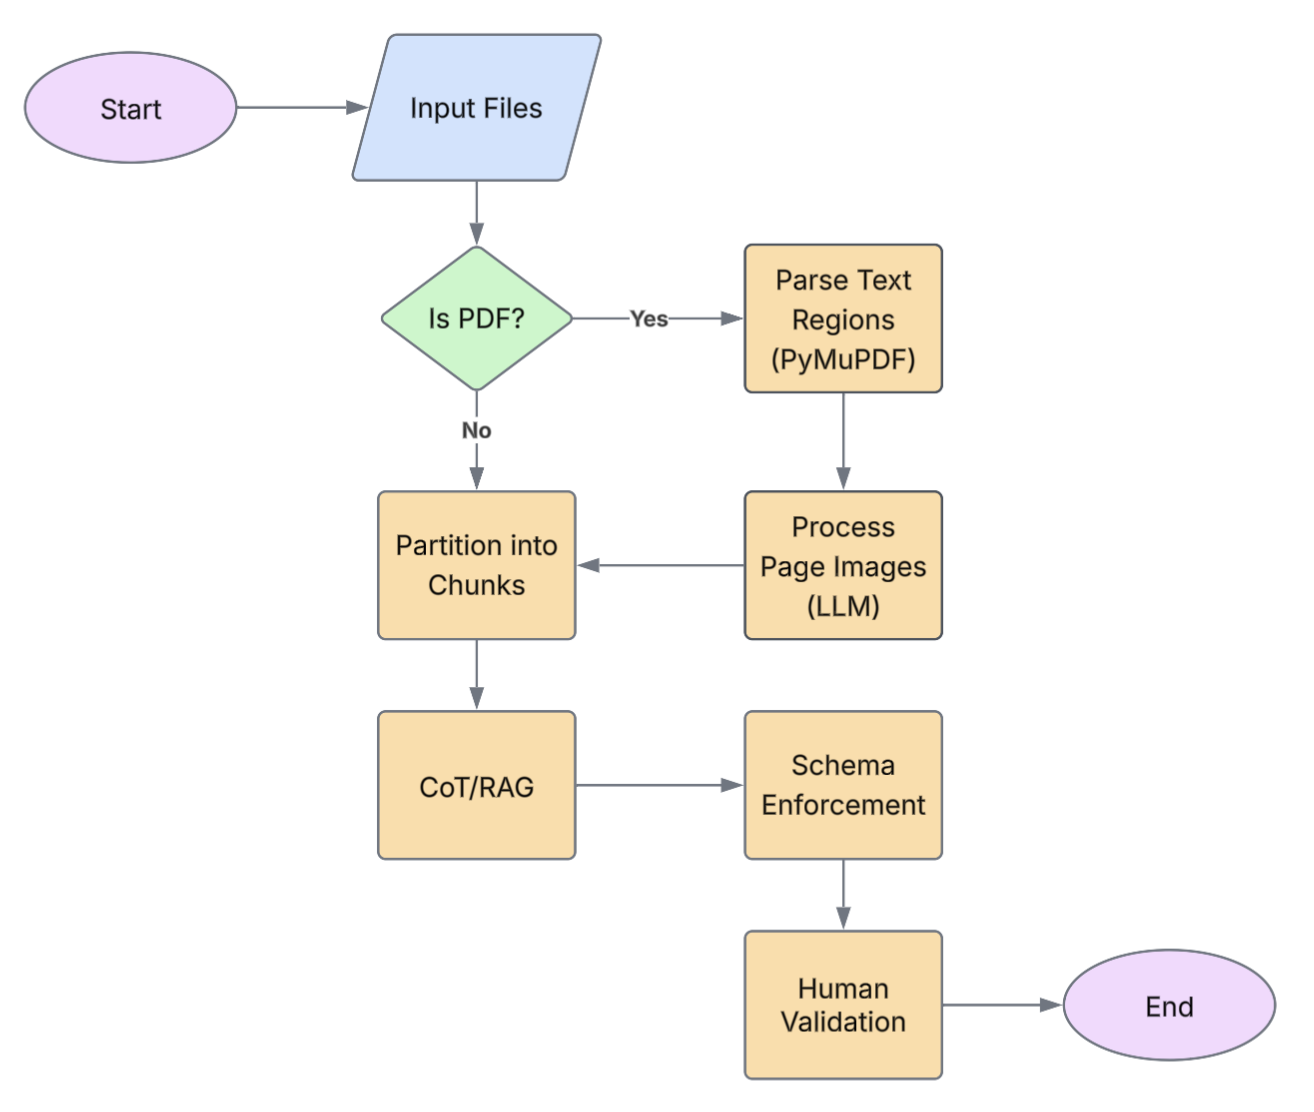
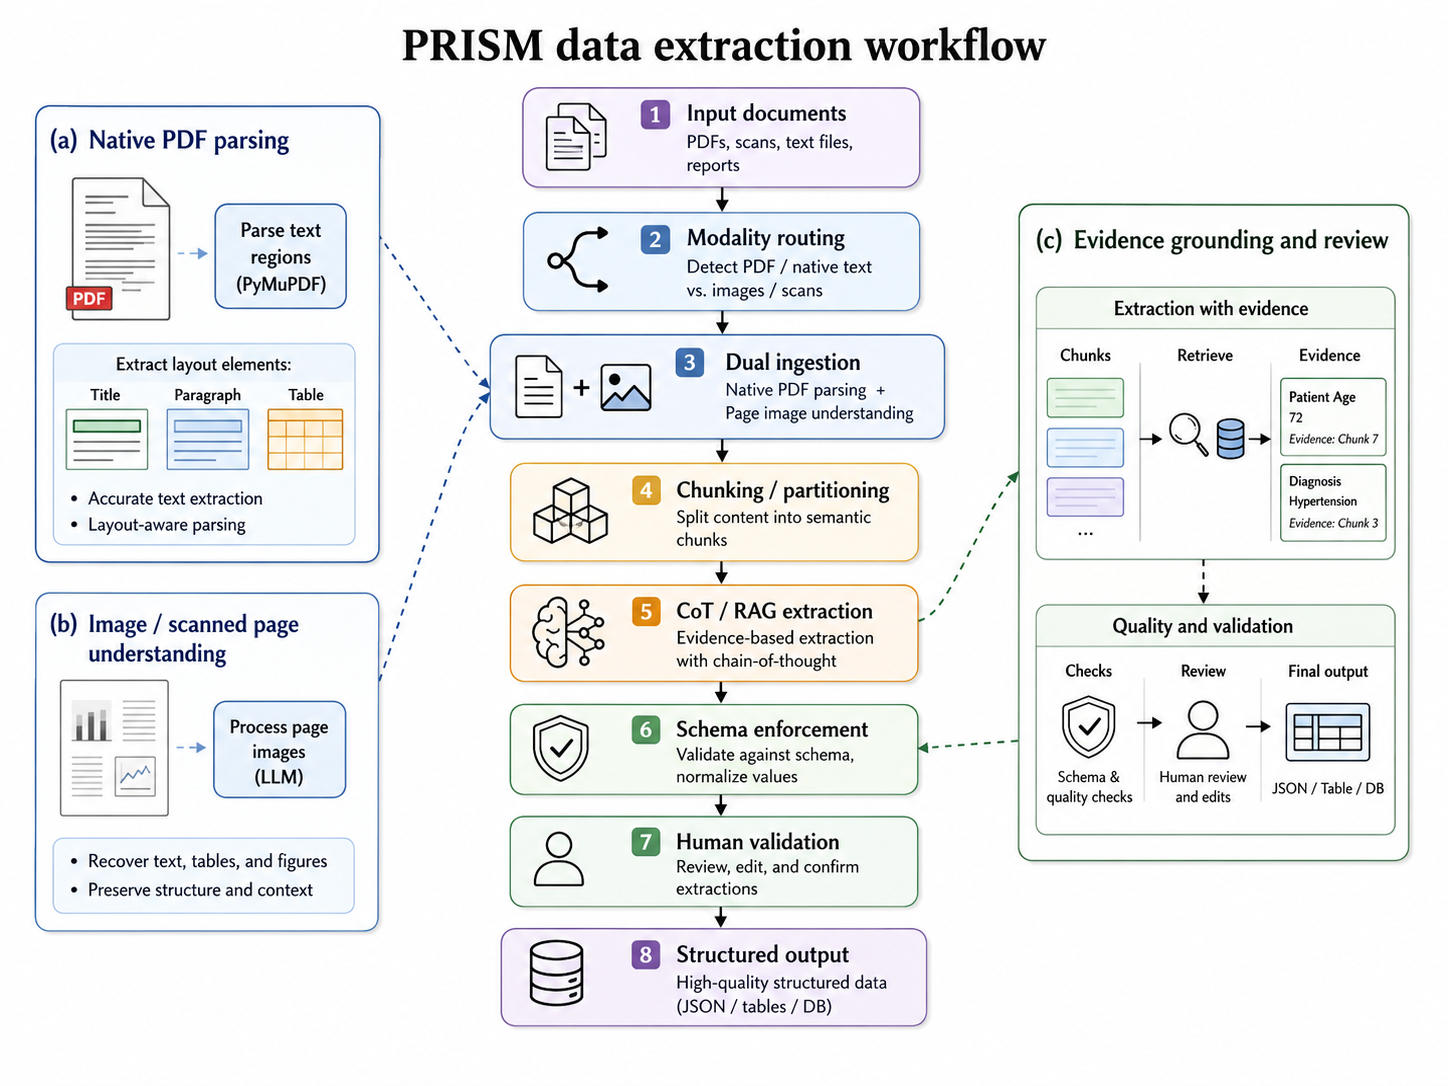
feat: update the "data extraction in prism" section

diff --git a/paper/src/3_methodology/2_data_extraction_in_prism.tex b/paper/src/3_methodology/2_data_extraction_in_prism.tex
@@ -4,11 +4,19 @@ The analytical dataset used in this study originates from the Plastic Recovery I
 
 \begin{figure}[H]
 	\centering
-	\includegraphics[width=0.8\linewidth]{figures/prism_data_extraction.png}
+	\includegraphics[width=1.0\linewidth]{figures/prism_data_extraction.png}
 	\caption{
 		The data extraction workflow runs through PRISM. When a document comes in, the system first identifies the document type, which is either PDF or tabular file. For PDF documents, PRISM first parses text regions using PyMuPDF and processes page images using large language models (LLMs). Then, both PDF-derived text and tabular files are partitioned into chunks. Finally, the system uses LLMs to extract data points via chain-of-thought prompting and retrieval-augmented generation. All data points undergo human validation before being used by downstream analysis.
 	}
 	\label{fig:prism_data_extraction}
 \end{figure}
 
-PRISM transforms unstructured source files into structured analytical records through an LLM-assisted data extraction workflow (Figure~\ref{fig:prism_data_extraction}). Each extracted data point includes a specific location (country or region), a reference year, a numerical value, a measurement unit, a data group, and a source reference. Because automated extraction with LLMs can introduce noise and inaccuracies, all extracted records are manually reviewed and approved before being admitted into the AUDA analytical database, where they are subsequently used for modeling and visualization.
+% PRISM transforms unstructured source files into structured analytical records through an LLM-assisted data extraction workflow (Figure~\ref{fig:prism_data_extraction}). Each extracted data point includes a specific location (country or region), a reference year, a numerical value, a measurement unit, a data group, and a source reference. Because automated extraction with LLMs can introduce noise and inaccuracies, all extracted records are manually reviewed and approved before being admitted into the AUDA analytical database, where they are subsequently used for modeling and visualization.
+
+% ChatGPT
+% TODO: rewrite this
+Figure~\ref{fig:prism_data_extraction} illustrates the end-to-end data extraction workflow used in the PRISM platform to transform uploaded unstructured documents into validated, structured data points. The process begins when an end user uploads a document, such as a PDF or Excel file, through the platform interface. The uploaded file is stored in Azure Blob Storage, while its metadata, including file type and storage URL, is recorded in the backend database. The system then classifies the document type to determine the appropriate processing strategy. For PDF documents, textual content is parsed using PyMuPDF, while visual elements such as tables, charts, and images are interpreted using GPT-4o. For Excel documents, structured tables are divided into smaller row-wise chunks to support efficient extraction.
+
+% ChatGPT
+% TODO: rewrite this
+After parsing, the PDF pipeline stores embedded text chunks in Azure AI Search to support retrieval-augmented generation for selected fields such as publisher and report date. The extraction component then applies large language models to identify relevant data points, including year, location, data point name, value, unit, and source context. The extracted outputs are subsequently passed through multiple post-processing layers, including data cleaning, location and data-point mapping, duplicate removal, unit standardization, calculated field generation, and quality score computation. Finally, the structured extraction results are saved as JSON in Azure Blob Storage and appended to the database for downstream validation, visualization, mapping, and chatbot use. Overall, the figure highlights how PRISM combines cloud storage, document parsing, vector search, generative AI, and rule-based post-processing to create a scalable and auditable data extraction pipeline.

diff --git a/paper/src/1_introduction/main.tex b/paper/src/1_introduction/main.tex
@@ -4,10 +4,6 @@ Plastic waste generation has become one of the most critical environmental chall
 
 In response to these situations, recent research highlights the pivotal role of policy interventions in mitigating future plastic waste mismanagement. Pottinger et al.~\cite{pottinger2024pathways} demonstrate, through a comprehensive global systems model, that a wide range of policy levers—including minimum recycled content mandates, enhanced recycling collection rates, packaging reuse requirements, consumption taxes, and targeted investments in waste and recycling infrastructure—can substantially reduce mismanaged plastic waste by 2050. The effectiveness of the interventions requires data-driven insights into the temporal dynamics of plastic waste generation. However, current decision-making frameworks used by governments, NGOs, and industry largely rely on static estimates and incomplete datasets, limiting proactive planning and the identification of high-impact interventions. The Alliance to End Plastic Waste (AEPW) has invested in the Plastics Recovery Insights Steering Model (PRISM) data ecosystem to address these gaps \cite{edie2023IBMPrismPlatform}. This eceosystem leverages large language models (LLMs) to extract various data points from unstructured sources, including government reports, academic publications, and industry datasets, to create a comprehensive repository of plastic waste-related information.
 
-% Based on the PRISM system, this paper proposes an AUDA platform that curates analytical database produced by migrating validated data from PRISM into a normalized schema. AUDA also provides tools that extract data from analytical tables and form them into datasets and common methods that analyze the datasets.
-%
-% In this study, we set up eight progressive experiments that use statistical methods and machine learning models to analyze data.
-
 Building on PRISM, this paper presents AUDA as an analytical platform for environmental data modeling. AUDA migrates validated PRISM records into a normalized country-year database and provides reusable workflows for constructing modeling datasets, filtering anomalous observations, reconstructing missing values, forecasting temporal trends, and evaluating model performance. Using AUDA, we conduct a set of experiments on plastic waste and related driver variables, including demographic, socioeconomic, waste-management, resin-consumption, and polymer-specific indicators.
 
 % Codex
